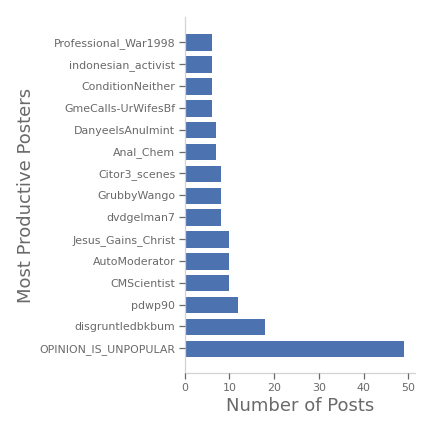
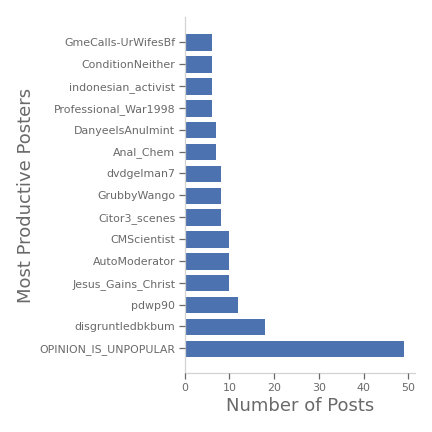
added a graph description

diff --git a/README.md b/README.md
@@ -48,15 +48,15 @@ A total of 1416 submission authors are represented in the data. The plot below s
 | <a href=https://www.reddit.com/user/Jesus_Gains_Christ/>Jesus_Gains_Christ</a> | 10 |
 | <a href=https://www.reddit.com/user/AutoModerator/>AutoModerator</a> | 10 |
 | <a href=https://www.reddit.com/user/CMScientist/>CMScientist</a> | 10 |
+| <a href=https://www.reddit.com/user/dvdgelman7/>dvdgelman7</a> | 8 |
 | <a href=https://www.reddit.com/user/Citor3_scenes/>Citor3_scenes</a> | 8 |
 | <a href=https://www.reddit.com/user/GrubbyWango/>GrubbyWango</a> | 8 |
-| <a href=https://www.reddit.com/user/dvdgelman7/>dvdgelman7</a> | 8 |
 | <a href=https://www.reddit.com/user/Anal_Chem/>Anal_Chem</a> | 7 |
 | <a href=https://www.reddit.com/user/DanyeelsAnulmint/>DanyeelsAnulmint</a> | 7 |
+| <a href=https://www.reddit.com/user/GmeCalls-UrWifesBf/>GmeCalls-UrWifesBf</a> | 6 |
 | <a href=https://www.reddit.com/user/Professional_War1998/>Professional_War1998</a> | 6 |
 | <a href=https://www.reddit.com/user/indonesian_activist/>indonesian_activist</a> | 6 |
 | <a href=https://www.reddit.com/user/ConditionNeither/>ConditionNeither</a> | 6 |
-| <a href=https://www.reddit.com/user/GmeCalls-UrWifesBf/>GmeCalls-UrWifesBf</a> | 6 |
 
 # Some Initial Observations
 1. Stocks are sometimes written in capital letters in the middle of a word
@@ -93,7 +93,7 @@ There seem to be at least three measures related to the impact of each submissio
 ![Figure](figures/score_by_age.png)
 <Figure size 432x432 with 1 Axes>
 
-No obvious relationship exists between score and submission age. This finding is important because it means that a submission's impact does not need to be scaled according to its age. Also, this is a convenient way to examine the distribution of scores. Given the right-tailed skew, let's examine the distribution on a log axis.
+One might assume that older submissions tend to have more upvotes and hence, a higher score. However, no obvious relationship exists between score and submission age. Still, we can use this figure to examine the distribution of scores. Given the right-tailed skew, let's examine the distribution on a log axis.
 
 ![Figure](figures/score_by_age_logy.png)
 <Figure size 432x432 with 1 Axes>
